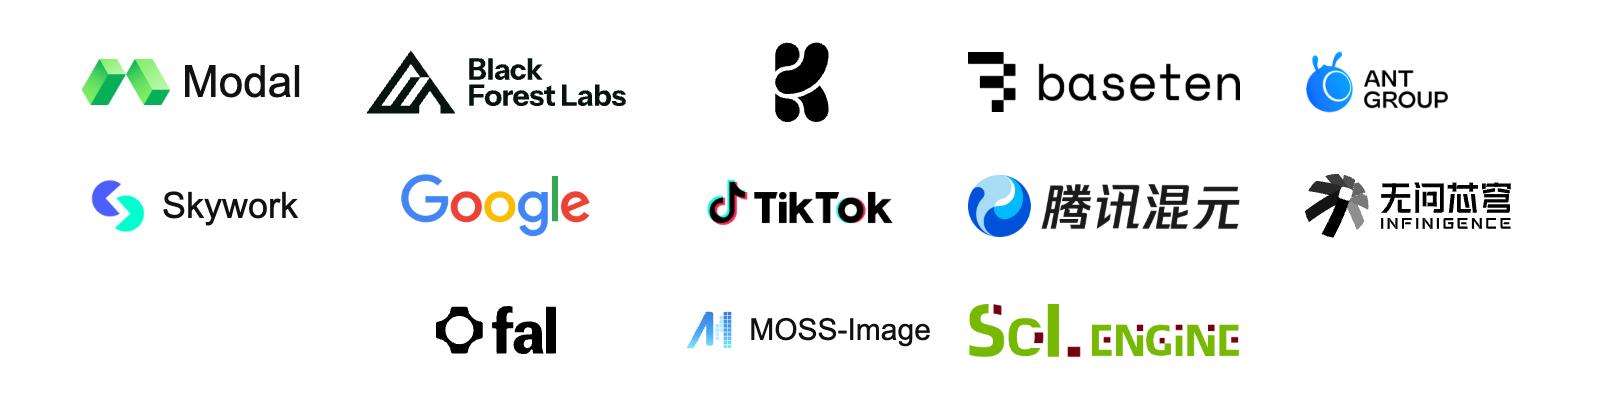
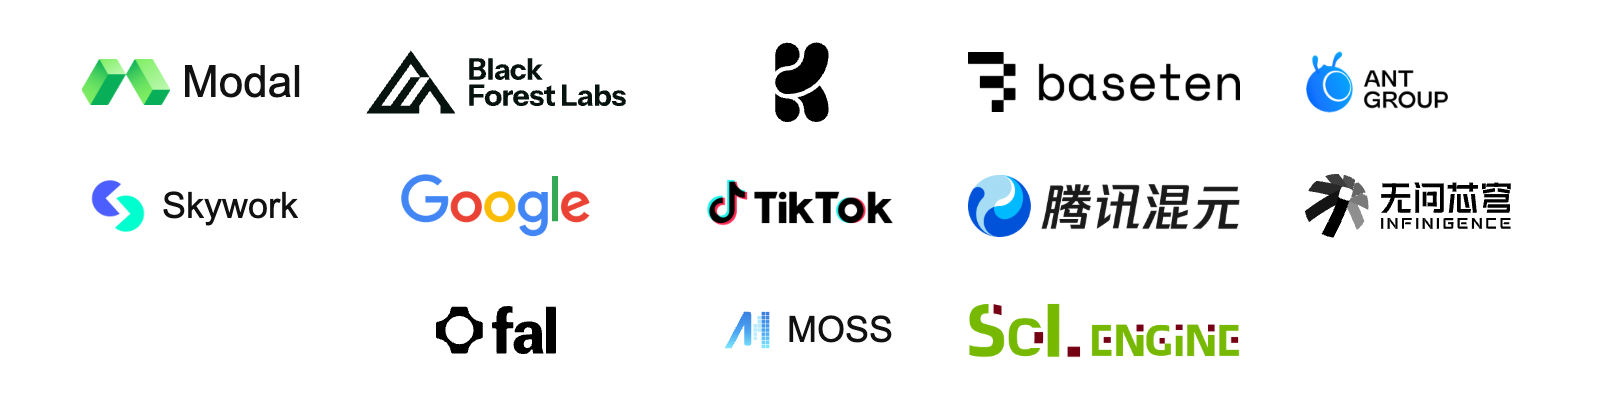
[Doc] diffusion: Use MOSS branding for image and video adoption

Changed region(s): [[0.4062, 0.7573, 0.5938, 0.8447], [0.6875, 0.7864, 0.75, 0.8447], [0.4688, 0.466, 0.5, 0.5243]]

diff --git a/assets/sglang-diffusion/adoption.html b/assets/sglang-diffusion/adoption.html
@@ -30,7 +30,6 @@
   .tiktok img { width: 272px; max-height: 100px; }
   .moss .icon { width: 80px; height: 80px; max-height: none; }
   .moss { gap: 0; }
-  .moss .label { font-size: 30px; }
 </style>
 <main aria-label="SGLang-Diffusion adopters and integrations">
   <div class="logo modal"><img class="icon" src="logos/modal.png" alt=""><span class="label">Modal</span></div>
@@ -44,7 +43,7 @@
   <div class="logo"><img src="logos/tencent-hunyuan.png" alt="Tencent Hunyuan"></div>
   <div class="logo"><img src="logos/infinigence.svg" alt="Infinigence"></div>
   <div class="logo"><img src="logos/fal.svg" alt="fal (Falcon)"></div>
-  <div class="logo moss"><img class="icon" src="logos/moss.svg" alt=""><span class="label">MOSS-Image</span></div>
+  <div class="logo moss"><img class="icon" src="logos/moss.svg" alt=""><span class="label">MOSS</span></div>
   <div class="logo"><img src="logos/sol-engine.png" alt="Sol-Engine"></div>
 </main>
 </html>

diff --git a/python/sglang/multimodal_gen/README.md b/python/sglang/multimodal_gen/README.md
@@ -114,7 +114,7 @@ For more usage examples (e.g. OpenAI compatible API, server mode), check the [CL
 ## SGLang-Diffusion Adoption & Integrations
 
 <p align="center">
-  <img src="../../../assets/sglang-diffusion/adoption.png" alt="SGLang-Diffusion adopters and integrations: Modal, Black Forest Labs, Krea, Baseten, Ant Group, Skywork, Google, TikTok, Tencent Hunyuan, Infinigence, fal, MOSS-Image, and Sol-Engine" width="800">
+  <img src="../../../assets/sglang-diffusion/adoption.png" alt="SGLang-Diffusion adopters and integrations: Modal, Black Forest Labs, Krea, Baseten, Ant Group, Skywork, Google, TikTok, Tencent Hunyuan, Infinigence, fal, MOSS, and Sol-Engine" width="800">
 </p>
 
 [fal](https://blog.fal.ai/h3-max-built-with-fal-inference-and-training/) ported SGLang-Diffusion's H3 implementation to its Falcon inference engine.

diff --git a/assets/sglang-diffusion/README.md b/assets/sglang-diffusion/README.md
@@ -27,7 +27,7 @@ npx --yes --package=playwright playwright screenshot --channel chrome \
 | Tencent Hunyuan | [Official website](https://hunyuan.tencent.com/) |
 | Infinigence | [Official wordmark](https://www.infinigence-ai.com/static/home/svg/logo.svg) |
 | fal | [Official blog wordmark](https://storage.ghost.io/c/0e/15/0e15ee8a-bd95-4b71-9258-950f77f4d196/content/images/2024/09/fal_logo.svg) |
-| MOSS-Image | [Official repository](https://github.com/OpenMOSS/MOSS-Image/blob/main/assets/logo.svg) |
+| MOSS (image and video) | [Official repository](https://github.com/OpenMOSS/MOSS-Image/blob/main/assets/logo.svg) |
 | Sol-Engine | [Official repository](https://github.com/NVlabs/Sana/blob/sol-engine/assets/sol-engine-logo.png) |
 
 Keep this list specific to SGLang-Diffusion adoption or implementation reuse.
